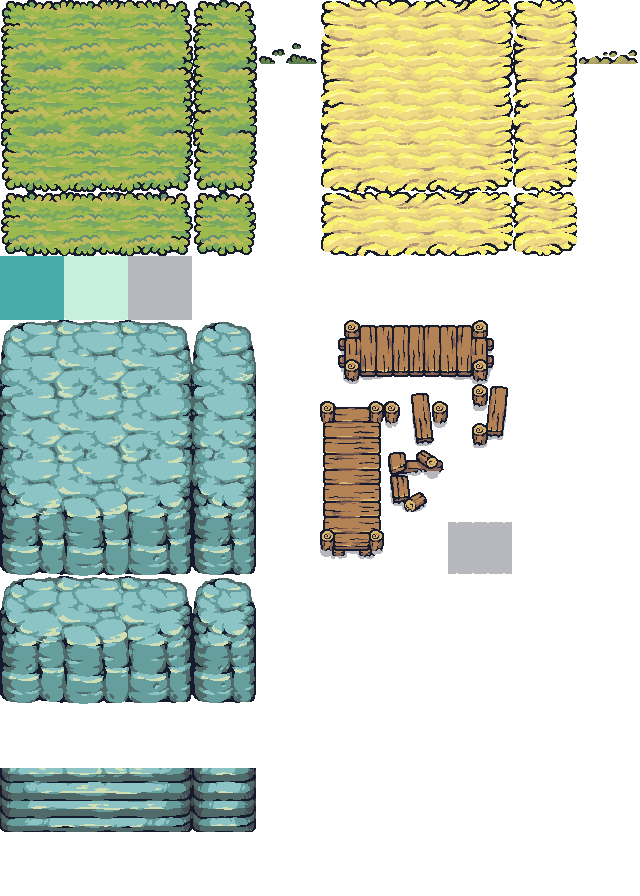
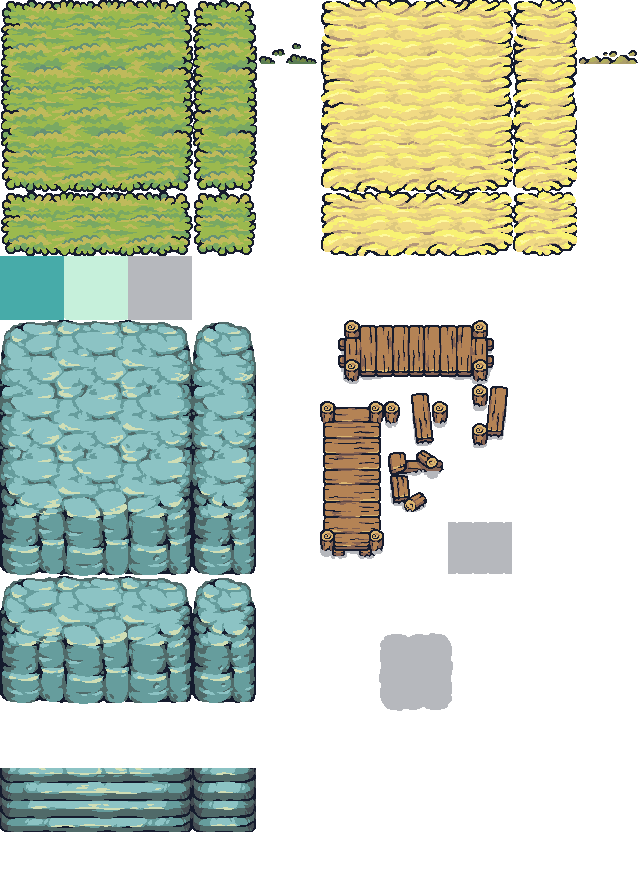
Adding bridge

Changed region(s): [[0.5938, 0.6875, 0.7188, 0.8125]]

diff --git a/src/assets/Terrain/horizontalBridge.tsx b/src/assets/Terrain/horizontalBridge.tsx
@@ -1,0 +1,4 @@
+<?xml version="1.0" encoding="UTF-8"?>
+<tileset version="1.10" tiledversion="1.10.2" name="horizontalBridge" tilewidth="160" tileheight="64" tilecount="1" columns="1">
+ <image source="../Block/bridge/horizontalBridge.png" width="160" height="64"/>
+</tileset>

diff --git a/src/assets/Terrain/verticalBridge.tsx b/src/assets/Terrain/verticalBridge.tsx
@@ -1,0 +1,4 @@
+<?xml version="1.0" encoding="UTF-8"?>
+<tileset version="1.10" tiledversion="1.10.2" name="verticalBridge" tilewidth="64" tileheight="160" tilecount="1" columns="1">
+ <image source="../Block/bridge/verticalBridge.png" width="64" height="160"/>
+</tileset>

diff --git a/src/com/blockList/Bridge.java b/src/com/blockList/Bridge.java
@@ -9,12 +9,12 @@ import com.id.ID;
 import com.main.Game;
 import com.obj.Block;
 
-public class HighGround6x4 extends Block{
-    SpriteSheet ss = new SpriteSheet("/assets/Block/solidBlock/highGround6x4.png");
-    public HighGround6x4(int x, int y, ID id, BlockType bt, Game game) {
+public class Bridge extends Block {
+    SpriteSheet ss = new SpriteSheet("/assets/Block/bridge/horizontalBridge.png");
+    boolean playerIntersect = false;
+    public Bridge(int x, int y, ID id, BlockType bt, Game game) {
         super(x, y, id, bt, game);
         image = ss.image;
-        this.highGround = true;
         //TODO Auto-generated constructor stub
     }
 
@@ -32,8 +32,7 @@ public class HighGround6x4 extends Block{
     @Override
     public Rectangle renderOrder() {
         // TODO Auto-generated method stub
-        // return new Rectangle(x, y, image.getWidth(), image.getHeight());
-        return new Rectangle();
+        return new Rectangle(x, y-32, image.getWidth(), 1);
     }
 
     @Override
@@ -44,7 +43,7 @@ public class HighGround6x4 extends Block{
     @Override
     public Rectangle getBound() {
         // TODO Auto-generated method stub
-        return new Rectangle(x, y, image.getWidth(), image.getHeight());
+        return new Rectangle();
     }
 
     @Override
@@ -52,5 +51,5 @@ public class HighGround6x4 extends Block{
         // TODO Auto-generated method stub
         return new Rectangle(x, y, image.getWidth(), image.getHeight());
     }
-    
+
 }

diff --git a/src/com/tile/ObjectManager.java b/src/com/tile/ObjectManager.java
@@ -5,6 +5,7 @@ import java.io.InputStream;
 import java.io.InputStreamReader;
 import java.util.ArrayList;
 
+import com.blockList.Bridge;
 import com.blockList.HighGround3x4;
 import com.blockList.HighGround6x4;
 import com.blockList.SolidBlock;
@@ -141,6 +142,11 @@ public class ObjectManager {
                         int y = extractValueInt(line, "y");
                         int h =  extractValueInt(line, "height");
                         objects.add(new HighGround6x4(x, y-h, ID.Block, BlockType.unDestroyAble, game));
+                    }else if(extractValueStr(line, "name").contains("hzBridge") ){
+                        int x = extractValueInt(line, "x");
+                        int y = extractValueInt(line, "y");
+                        int h =  extractValueInt(line, "height");
+                        objects.add(new Bridge(x, y-h, ID.Block, BlockType.unDestroyAble, game));
                     }
 				}
             } else {

diff --git a/src/com/map/TryWorld.java b/src/com/map/TryWorld.java
@@ -55,6 +55,7 @@ public class TryWorld extends Biome{
         foam = animHandler.animatedSprite8Frame(foam, foams.idle);
         drawAnimation(g2d, foam,terrainLayer.get(0), 42, 64, 32);
         drawTerrainLayer(g2d, xx, yy, tileSet, terrainLayer.get(1), tilem);
+        drawTerrainLayer(g2d, xx, yy, tileSet, terrainLayer.get(2), tilem);
         drawObjectLayer(g2d, objectLayer.get(0), xx, yy);
     }
 
@@ -64,6 +65,7 @@ public class TryWorld extends Biome{
         getTileSet(tileSet, tilem);
         addTerrainLayer(mapPath, "Tile Layer 1", terrainLayer, tilem); // layer pertama air
         addTerrainLayer(mapPath, "Tile Layer 2", terrainLayer, tilem); // layer kedua tanah
+        addTerrainLayer(mapPath, "shadow Layer", terrainLayer, tilem);
         addObjectLayer(mapPath, "Object Layer 1", objectLayer, bm); // object layer pertama
         addSolidLayer(objectLayer,"solidLayer" , bm, 0);// transparan blok collision
     }

diff --git a/src/com/blockList/HighGround3x4.java b/src/com/blockList/HighGround3x4.java
@@ -14,6 +14,7 @@ public class HighGround3x4 extends Block{
     public HighGround3x4(int x, int y, ID id, BlockType bt, Game game) {
         super(x, y, id, bt, game);
         //TODO Auto-generated constructor stub
+        this.highGround = true;
         image = ss.image;
     }
 
@@ -31,7 +32,7 @@ public class HighGround3x4 extends Block{
     @Override
     public Rectangle renderOrder() {
         // TODO Auto-generated method stub
-        return new Rectangle(x, y+(64*3), 192, 64);
+        return new Rectangle();
     }
 
     @Override
@@ -42,7 +43,7 @@ public class HighGround3x4 extends Block{
     @Override
     public Rectangle getBound() {
         // TODO Auto-generated method stub
-        return new Rectangle();
+        return new Rectangle(x, y, image.getWidth(), image.getHeight());
     }
 
     @Override

diff --git a/src/com/playerlist/Fighter.java b/src/com/playerlist/Fighter.java
@@ -43,7 +43,7 @@ public class Fighter extends Entity{
 	}
 
 	public Rectangle getBound() {
-		return new Rectangle(x+48, y +64, 32, 32 );
+		return new Rectangle(x+48, y +80, 32, 16 );
 		
 	}
 
@@ -54,10 +54,10 @@ public class Fighter extends Entity{
 	public void Collision() {
 		for (int i = 0; i < game.tryWorld.objectLayer.get(0).size(); i++) {
 			GameObject temp = game.tryWorld.objectLayer.get(0).get(i);
-			if(getBound().intersects(temp.getBound()) && temp.getID() == ID.Block){
+			if(getBound().intersects(temp.getBound()) && temp.getID() == ID.Block && temp.highGround == false){
 				x += velX * -1;
 				y += velY * -1;
-			}
+			}	
 		}
 		
 	}

diff --git a/src/com/obj/GameObject.java b/src/com/obj/GameObject.java
@@ -9,6 +9,9 @@ public abstract class GameObject {
     public BufferedImage image;
     public int x, y;
     ID id;
+
+	public boolean highGround = false;
+
     public abstract void tick();
     public abstract void render(Graphics g);
     public abstract Rectangle getBound();

diff --git a/src/com/obj/Block.java b/src/com/obj/Block.java
@@ -10,7 +10,6 @@ import com.main.Game;
 public abstract class Block extends GameObject {
     BlockType bt;
     public Game game;
-
     public int spriteNum = 1 ; // Counter Animation
 	public int spriteCounter = 0;
     public BufferedImage[] idle = new BufferedImage[10];

diff --git a/src/com/obj/Entity.java b/src/com/obj/Entity.java
@@ -19,6 +19,7 @@ public abstract class Entity extends GameObject {
     public Game game;
 	protected EntityClass ec;
 
+
 	public SpriteSheet ss;
 	public String arah; //tanda arah
 	public BufferedImage[] runDown = new BufferedImage[6];

diff --git a/src/com/playerlist/Archer.java b/src/com/playerlist/Archer.java
@@ -307,6 +307,7 @@ public class Archer extends Entity{
 		// TODO Auto-generated method stub
 		return new Rectangle(x, y, image.getWidth(), image.getHeight());
 	}
+	
 
 
 }

diff --git a/src/com/playerlist/Caster.java b/src/com/playerlist/Caster.java
@@ -56,4 +56,5 @@ public class Caster extends Entity{
 		return new Rectangle(x, y, image.getWidth(), image.getHeight());
 	}
 
+	
 }
